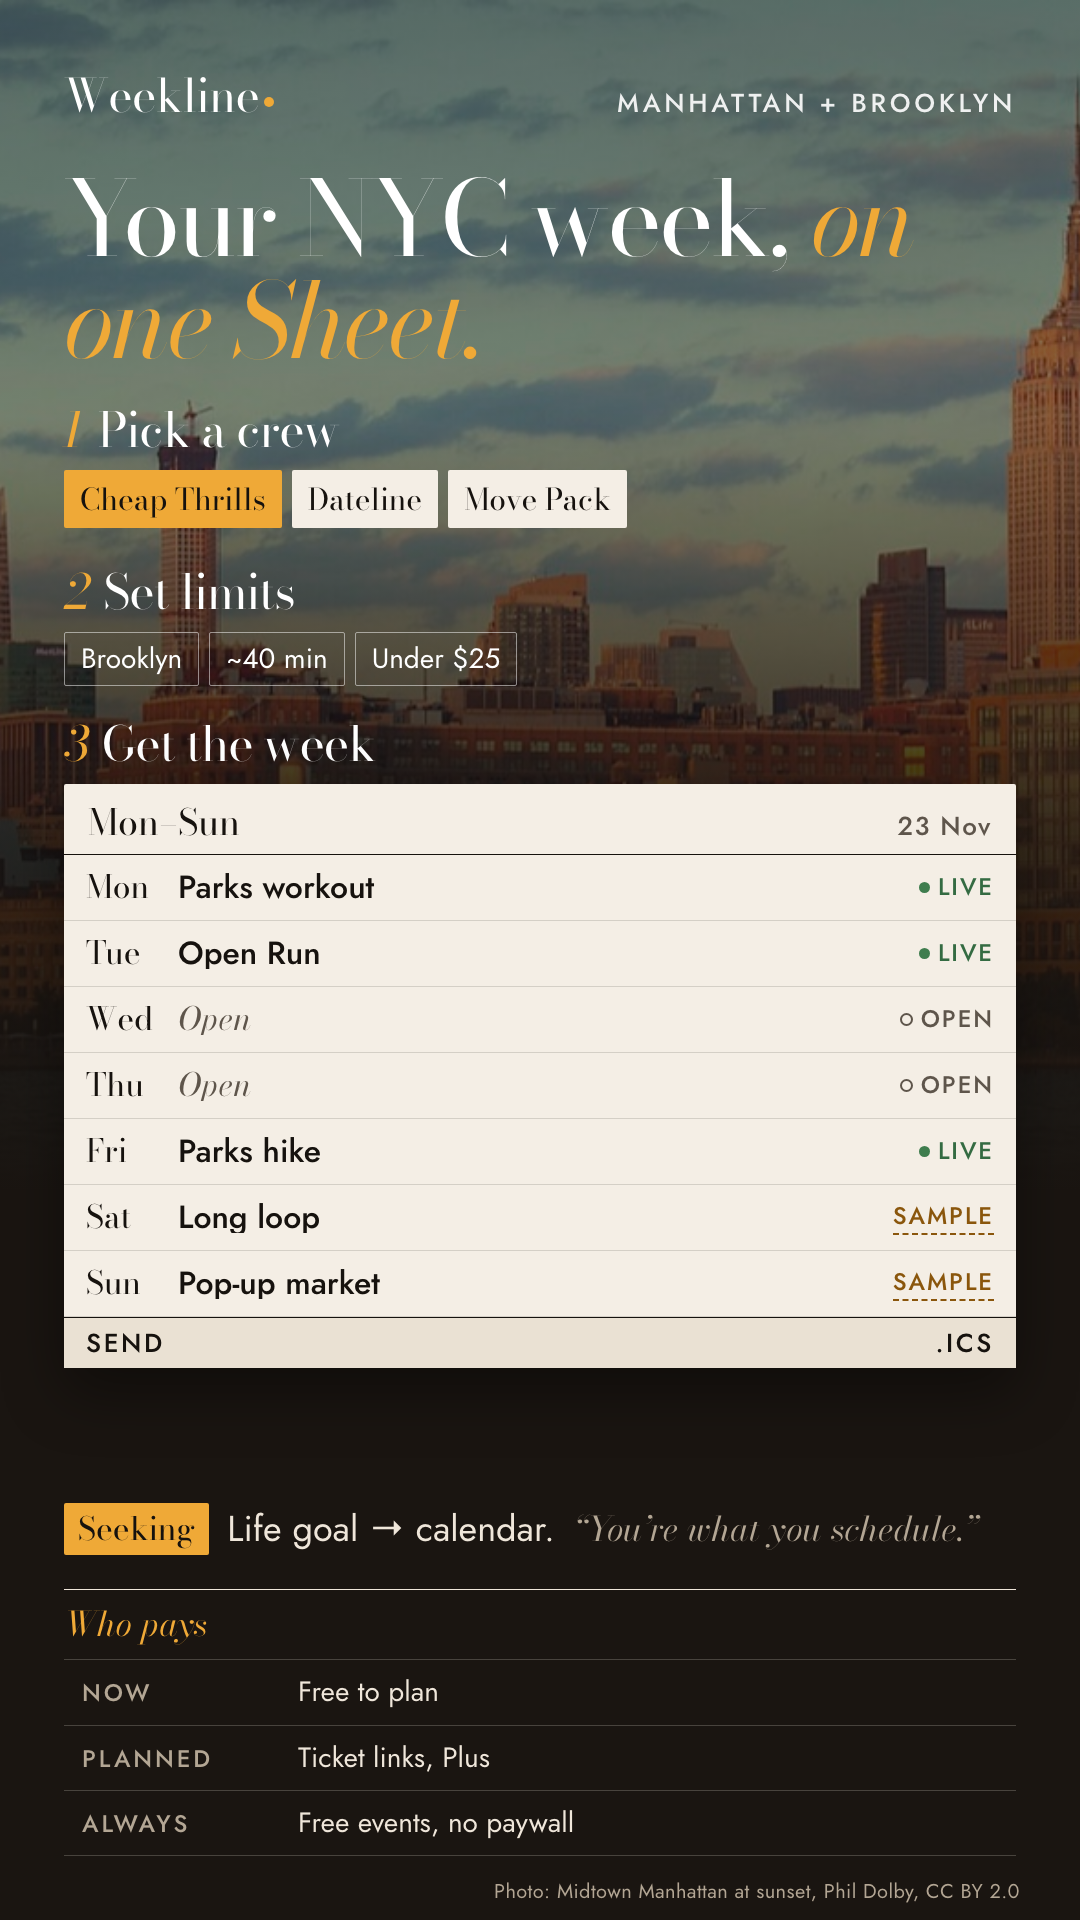
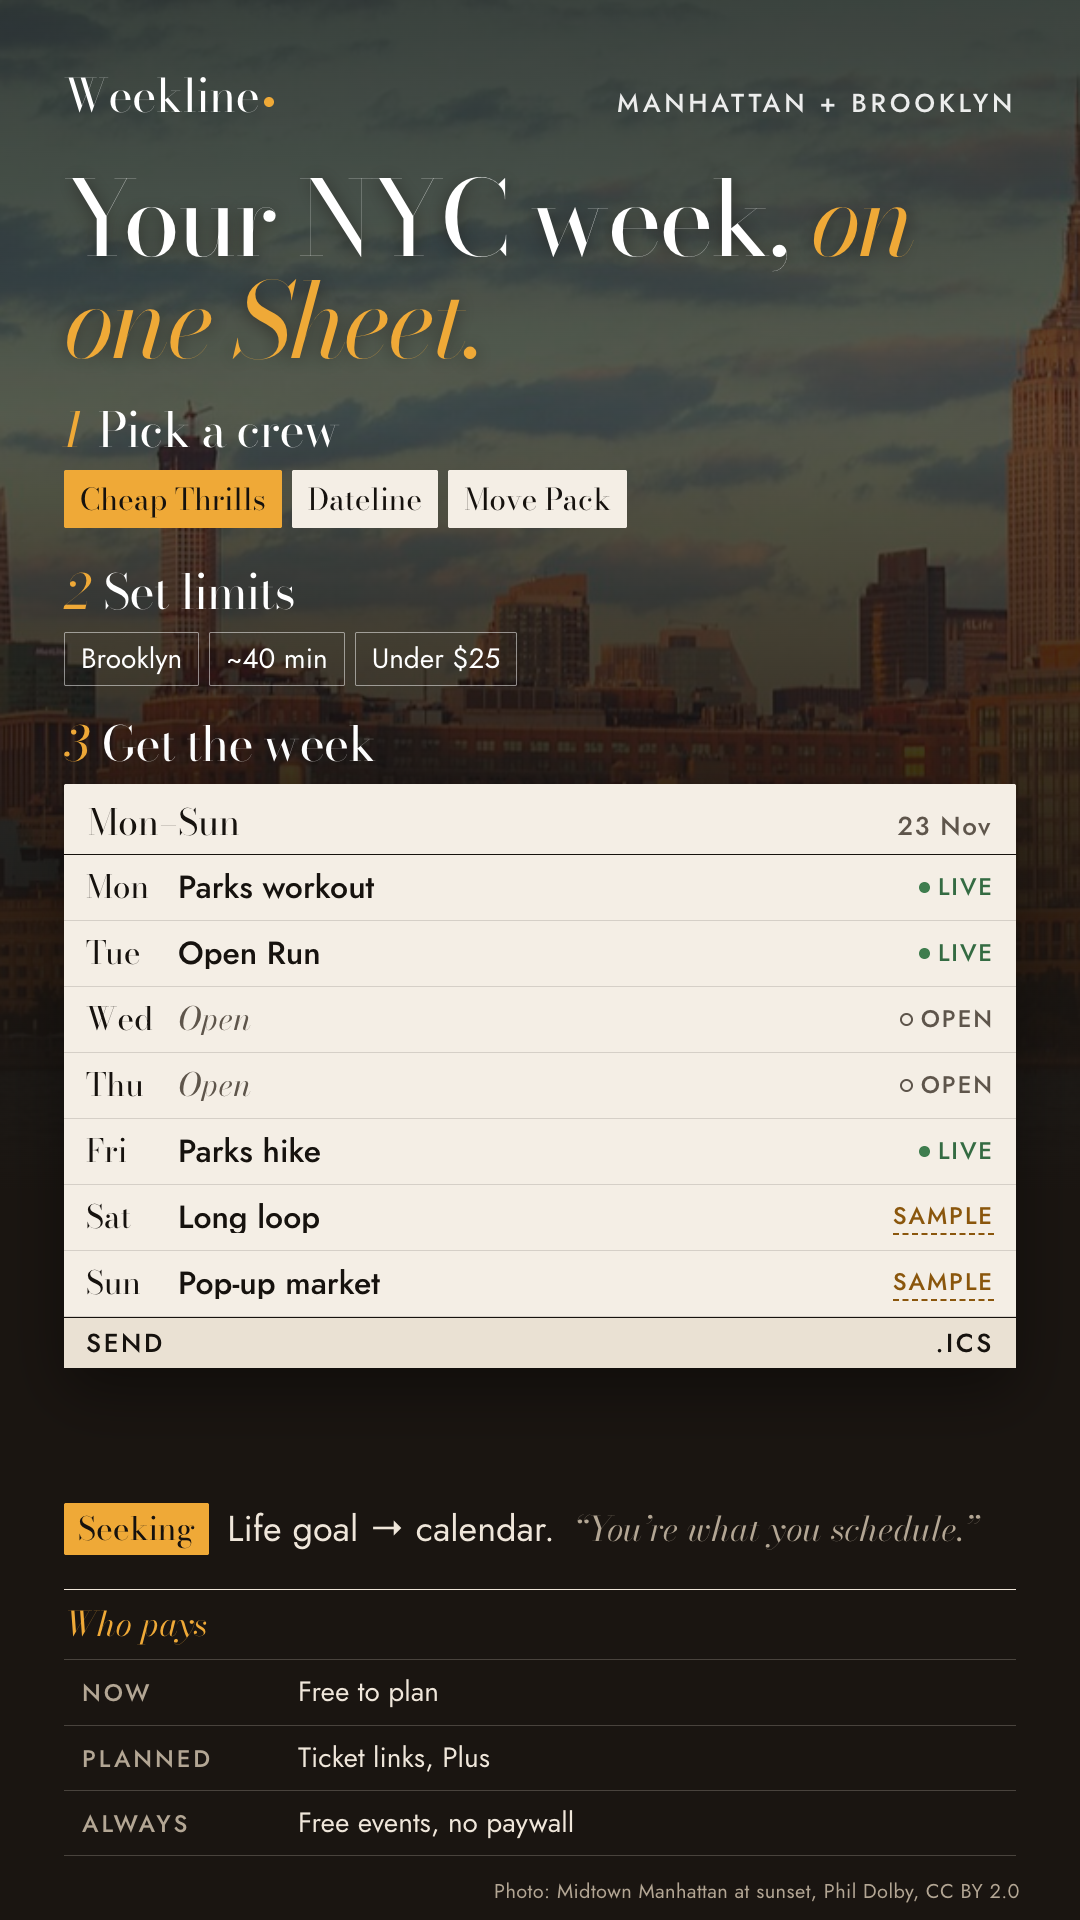
Weekline explainer: darker sky behind the headline so NYC reads

Changed region(s): [[0.0, 0.0, 1.0, 0.3125], [0.1528, 0.2812, 0.1833, 0.3125]]

diff --git a/public/projects/weekline/social/explainer.html b/public/projects/weekline/social/explainer.html
@@ -28,14 +28,14 @@ html,body{background:var(--dusk);overflow:hidden}
 body{font-family:var(--sans);color:#fff;-webkit-font-smoothing:antialiased}
 .g{position:relative;overflow:hidden;display:grid;gap:32px;padding:56px 60px;background:var(--dusk)}
 .bg{position:absolute;left:0;top:0;width:100%;height:62%;object-fit:cover;object-position:50% 45%;z-index:0}
-.scrim{position:absolute;left:0;top:0;width:100%;height:62.2%;z-index:0;background:linear-gradient(180deg,rgba(26,21,17,.62) 0%,rgba(26,21,17,.5) 35%,rgba(26,21,17,.85) 70%,#1A1511 100%)}
+.scrim{position:absolute;left:0;top:0;width:100%;height:62.2%;z-index:0;background:linear-gradient(180deg,rgba(26,21,17,.8) 0%,rgba(26,21,17,.68) 35%,rgba(26,21,17,.88) 70%,#1A1511 100%)}
 .g>*:not(.bg):not(.scrim):not(.credit){position:relative;z-index:1}
 .credit{position:absolute;z-index:1;right:60px;bottom:18px;font:400 20px/1 var(--sans);color:var(--on-dusk-2);letter-spacing:.02em}
 .top{grid-area:top;display:flex;justify-content:space-between;align-items:baseline;gap:20px}
 .word{font:400 46px/1 var(--serif);letter-spacing:-.01em}
 .word::after{content:"";display:inline-block;width:10px;height:10px;border-radius:50%;background:var(--sun);margin-left:5px;vertical-align:.1em}
 .eyebrow{font:500 26px/1 var(--sans);letter-spacing:.14em;text-transform:uppercase;color:rgba(255,255,255,.9)}
-h1{grid-area:h1;font:400 80px/.98 var(--serif);letter-spacing:-.03em}
+h1{grid-area:h1;font:400 80px/.98 var(--serif);letter-spacing:-.03em;text-shadow:0 2px 18px rgba(26,21,17,.55)}
 h1 em{font-style:italic;color:var(--sun)}
 .step{position:relative;display:flex;flex-direction:column;gap:16px;min-width:0}
 .s1{grid-area:s1}.s2{grid-area:s2}.s3{grid-area:s3}
